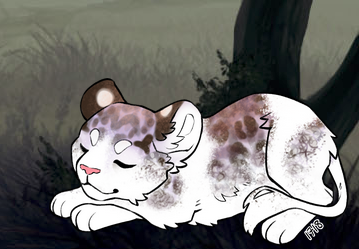
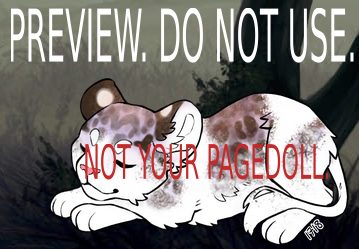
new layouts added and order form page

Changed region(s): [[0.0306, 0.0281, 1.0, 0.253], [0.2145, 0.5622, 0.5515, 0.7309], [0.5822, 0.5622, 0.9192, 0.7309]]

diff --git a/order.html b/order.html
@@ -1026,17 +1026,17 @@
                 <h3 class="pb-2 d-inline-block">Extravagant Package</h3>
             </summary>
             <div id="extravagantForm" class="p-4 mb-5">
-                <!-- <p class="mb-0">Coming Soon :&rpar;</p> -->
-                <p>
+                <p class="mb-0">Coming Soon :&rpar;</p>
+                <!-- <p>
                     <strong>
                         Please keep in mind that this particular package is less flexible than my others due to how
                         heavily styled it is. That may change in the future as I work with it more, but there are some
                         things that I may not be willing to change or include at this time that I might for my other
                         packages.
                     </strong>
-                </p>
+                </p> -->
                 <!-- payment -->
-                <h5>1. Payment:</h5>
+                <!-- <h5>1. Payment:</h5>
                 <div class="form-check">
                     <input class="form-check-input" type="radio" name="paymentTypeExtravagant" id="gbPaymentExtravagant"
                         value="gb" checked>
@@ -1053,17 +1053,17 @@
                 <div class="form-text" id="paymentDescExtravagant">
                     Only fill this in if you selected Items. Only items that are listed in my alternate payments section
                     will be accepted.
-                </div>
+                </div> -->
                 <!-- logo -->
-                <h5 class="mt-3">2. Logo:</h5>
+                <!-- <h5 class="mt-3">2. Logo:</h5>
                 <label for="logoItemTextExtravagant">Logo Item:</label>
                 <input type="text" class="form-control required" id="logoItemTextExtravagant"
                     aria-describedby="logoDescExtravagant">
                 <div class="form-text" id="logoDescExtravagant">
                     LD items only. Just give the name of the item, please.
-                </div>
+                </div> -->
                 <!-- bg img -->
-                <h5 class="mt-3">3. Background:</h5>
+                <!-- <h5 class="mt-3">3. Background:</h5>
                 <p class="mb-0">Approved Image Sources:</p>
                 <ul>
                     <li><a href="https://unsplash.com/">Unsplash</a></li>
@@ -1082,9 +1082,9 @@
                     the image, please or the name of the BG if it's an LD BG. For Unsplash and Pexels, the
                     correct link will be up in the address bar when you are looking at the download page for the image
                     you'd like.
-                </div>
+                </div> -->
                 <!-- font -->
-                <h5 class="mt-3">4. Font:</h5>
+                <!-- <h5 class="mt-3">4. Font:</h5>
                 <p class="mb-1">
                     Any fonts must be from <a href="https://fonts.google.com/" title="Google Fonts Homepage">Google
                         Fonts</a>. Please just give me the font names rather than links.
@@ -1102,9 +1102,9 @@
                 <div class="form-text" id="headFontDescExtravagant">
                     Font will be used for headers, navbar, and the tops of tables. Leave blank if
                     you just want one font for the whole page.
-                </div>
+                </div> -->
                 <!-- main color -->
-                <h5 class="mt-3">5. Main Color:</h5>
+                <!-- <h5 class="mt-3">5. Main Color:</h5>
                 <p class="mb-1">Only give me color names for both this and accent color, please. Do not give me hex
                     codes or rgb values as I will not
                     use them and will instead pick the exact values myself to better fit with the images or theme
@@ -1115,17 +1115,17 @@
                     aria-describedby="pcDescExtravagant">
                 <div class="form-text" id="pcDescExtravagant">
                     Will be used for the bulk of the page.
-                </div>
+                </div> -->
                 <!-- accent color -->
-                <h5 class="mt-3">6. Accent Color:</h5>
+                <!-- <h5 class="mt-3">6. Accent Color:</h5>
                 <label for="tcExtravagant">Color:</label>
                 <input id="tcExtravagant" type="text" class="form-control required"
                     aria-describedby="tcDescExtravagant">
                 <div class="form-text" id="tcDescExtravagant">
                     Will be used for regular buttons and the progress bars.
-                </div>
+                </div> -->
                 <!-- overlay -->
-                <h5 class="mt-3">7. Overlay Image:</h5>
+                <!-- <h5 class="mt-3">7. Overlay Image:</h5>
                 <p class="mb-0">Approved Overlay Sources:</p>
                 <ul>
                     <li><a href="https://www.transparenttextures.com/" title="Transparent Textures Homepage">Transparent
@@ -1139,9 +1139,9 @@
                 <div class="form-text" id="overlayDescExtravagant">
                     Will be used to add a texture to many of the elements on the page. The provided overlay image may
                     have its color or opacity adjusted to better match everything else.
-                </div>
+                </div> -->
                 <!-- sidebar imgs -->
-                <h5 class="mt-3">8. Sidebar Panel Images:</h5>
+                <!-- <h5 class="mt-3">8. Sidebar Panel Images:</h5>
                 <p class="mb-1">
                     All these images must be <a href="https://www.lioden.wiki/background-directory"
                         title="Lioden Wiki Background Directory">LD BGs</a>.
@@ -1164,9 +1164,9 @@
                 <input id="bPanelExtravagant" type="text" class="form-control" aria-describedby="bPanelDescExtravagant">
                 <div class="form-text" id="bPanelDescExtravagant">
                     This is the panel that has your pinned bookmarks. Leave blank to make the same as the members panel.
-                </div>
+                </div> -->
                 <!-- sidebar arrows -->
-                <h5 class="mt-3">9. Sidebar Arrow Images:</h5>
+                <!-- <h5 class="mt-3">9. Sidebar Arrow Images:</h5>
                 <p class="mb-1">
                     All these images must be LD items.
                 </p>
@@ -1187,9 +1187,9 @@
                 <div class="form-text" id="bArrowDescExtravagant">
                     This is the arrow next to "Bookmarks" in the sidebar. Leave blank to make the same as the king stats
                     arrow.
-                </div>
+                </div> -->
                 <!-- player table bg -->
-                <h5 class="mt-3">10. Player Table BG:</h5>
+                <!-- <h5 class="mt-3">10. Player Table BG:</h5>
                 <p class="mb-1">
                     Must be an <a href="https://www.lioden.wiki/background-directory"
                         title="Lioden Wiki Background Directory">LD BG</a>.
@@ -1201,9 +1201,9 @@
                     This will be used for the background of the about and player tables. The about table is the one that
                     has the image of your king and stats regarding your pride. The player table has your profile
                     picture, display name, ID number, and when you were last active.
-                </div>
+                </div> -->
                 <!-- caves -->
-                <h5 class="mt-3">11. Cave Images:</h5>
+                <!-- <h5 class="mt-3">11. Cave Images:</h5>
                 <p class="mb-1">
                     All of these images must be <a href="https://www.lioden.wiki/background-directory"
                         title="Lioden Wiki Background Directory">LD BGs</a>.
@@ -1254,9 +1254,9 @@
                 <div class="form-text" id="caveExtraDescExtravagant">
                     Please make sure to label each image with what number of cave you'd like it for. Leave blank to make
                     the same as the default.
-                </div>
+                </div> -->
                 <!-- mounds -->
-                <h5 class="mt-3">12. Mound Images:</h5>
+                <!-- <h5 class="mt-3">12. Mound Images:</h5>
                 <p class="mb-1">
                     All of these images must be <a href="https://www.lioden.wiki/background-directory"
                         title="Lioden Wiki Background Directory">LD BGs</a>.
@@ -1284,9 +1284,9 @@
                 <div class="form-text" id="moundExtraDescExtravagant">
                     Please make sure to label each image with what number of mound you'd like it for. Leave blank to
                     make the same as the default.
-                </div>
+                </div> -->
                 <!-- dynasties -->
-                <h5 class="mt-3">13. Dynasty Images:</h5>
+                <!-- <h5 class="mt-3">13. Dynasty Images:</h5>
                 <p class="mb-1">
                     All of these images must be <a href="https://www.lioden.wiki/background-directory"
                         title="Lioden Wiki Background Directory">LD BGs</a>.
@@ -1320,23 +1320,23 @@
                     aria-describedby="beetleDynDescExtravagant">
                 <div class="form-text" id="beetleDynDescExtravagant">
                     Leave blank to make the same as the king dynasty.
-                </div>
+                </div> -->
                 <!-- featured bg -->
-                <h5 class="mt-3">14. Featured Lion BG:</h5>
+                <!-- <h5 class="mt-3">14. Featured Lion BG:</h5>
                 <label for="featuredBGExtravagant">BG Name:</label>
                 <input type="text" class="form-control required" id="featuredBGExtravagant"
                     aria-describedby="featuredBGDescExtravagant">
-                <div class="form-text" id="featuredBGDescExtravagant">Must be an LD BG.</div>
+                <div class="form-text" id="featuredBGDescExtravagant">Must be an LD BG.</div> -->
                 <!-- comment box msg -->
-                <h5 class="mt-3">15. Comment Box Message:</h5>
+                <!-- <h5 class="mt-3">15. Comment Box Message:</h5>
                 <label for="commentExtravagant">Message:</label>
                 <input type="text" class="form-control" id="commentExtravagant"
                     aria-describedby="commentDescExtravagant">
                 <div class="form-text" id="commentDescExtravagant">Used in the header of the comment box. Must be no
                     longer than 100 characters. If left blank, the default message is "Leave a comment!" and that is
-                    what it will be set to.</div>
+                    what it will be set to.</div> -->
                 <!-- online/offline -->
-                <h5 class="mt-3">16. Online/Offline Text:</h5>
+                <!-- <h5 class="mt-3">16. Online/Offline Text:</h5>
                 <p class="mb-1">This refers to text beside the online/offline indicator dot next to your display name.
                 </p>
                 <label for="onlineExtravagant">Online:</label>
@@ -1345,9 +1345,9 @@
                 <label for="offlineExtravagant" class="mt-2">Offline:</label>
                 <input type="text" class="form-control" id="offlineExtravagant"
                     aria-describedby="offlineDescExtravagant">
-                <div class="form-text" id="offlineDescExtravagant">Must be a single word.</div>
+                <div class="form-text" id="offlineDescExtravagant">Must be a single word.</div> -->
                 <!-- boxes -->
-                <h5 class="mt-3">17. HTML Boxes:</h5>
+                <!-- <h5 class="mt-3">17. HTML Boxes:</h5>
                 <p class="mb-0">Main Boxes:</p>
                 <div class="form-check">
                     <input class="form-check-input" type="radio" name="mainBoxExtravagant" id="boxStatic1Extravagant"
@@ -1396,9 +1396,9 @@
                     <label class="form-check-label" for="boxPlainExtravagant">
                         Plain Box
                     </label>
-                </div>
+                </div> -->
                 <!-- value -->
-                <h5 class="mt-3">18. Light or Dark:</h5>
+                <!-- <h5 class="mt-3">18. Light or Dark:</h5>
                 <div class="form-check">
                     <input class="form-check-input" type="radio" name="valueExtravagant" id="valueLightExtravagant"
                         value="light">
@@ -1423,7 +1423,7 @@
                         put "cc" in that spot.
                     </p>
                 </div>
-                <div id="extravagantOrder"></div>
+                <div id="extravagantOrder"></div> -->
             </div>
         </details>
         <!-- <p>

diff --git a/index.html b/index.html
@@ -27,6 +27,9 @@
                             <a class="nav-link" href="./tutorials.html" title="Tutorials Page">Tutorials</a>
                         </li>
                         <li class=" nav-item mx-2">
+                            <a class="nav-link" href="./order.html" title="Ordering Page">Comm Forms</a>
+                        </li>
+                        <li class=" nav-item mx-2">
                             <a class="nav-link" href="./replacer.html" title="Bracket Replacer Page">Bracket
                                 Replacer</a>
                         </li>
@@ -165,7 +168,7 @@
         </div>
         <details open>
             <summary>
-                <h3 class="pb-2 d-inline-block" id="aesthetic">Aesthetic Layouts (29)</h3>
+                <h3 class="pb-2 d-inline-block" id="aesthetic">Aesthetic Layouts (33)</h3>
             </summary>
             <div class="row" id="aestheticCon"></div>
         </details>
@@ -201,7 +204,7 @@
         </details>
         <details open>
             <summary>
-                <h3 class="pb-2 d-inline-block" id="scenic">Scenic Layouts (24)</h3>
+                <h3 class="pb-2 d-inline-block" id="scenic">Scenic Layouts (30)</h3>
             </summary>
             <div class="row" id="scenicCon"></div>
         </details>
@@ -265,26 +268,31 @@
             so anyone distributing them through free CSS or packaging them with their own commissions without my
             express permission will be reported for doing so as it is a blatant violation of my rules. You also
             <strong><em>CANNOT</em></strong>
-            use more than one of these box add-ons at a
-            time because they will override each other.
+            use more than one of the box add-ons at a
+            time because they will override each other. The pagedoll can stack with any of them, however.
         </p>
         <h4>How to Use:</h4>
         <ol class="ms-2 pe-5">
-            <li>Copy the CSS Link (yes it is necessary to make the boxes work)</li>
+            <li>Copy the CSS Link (yes it is necessary to make any of these work)</li>
             <li>Paste at the top of your territory description. It should be after any other CSS links you have
                 (such as those for the layouts above) but before any text or box codes.</li>
-            <li>Copy box HTML.</li>
+            <li>Copy HTML.</li>
             <li>Paste into territory description after the CSS Link from previous steps.</li>
-            <li>If using someone else's layout, style boxes to match page <strong>(Instructions on the <a
-                        href="./tutorials.html" title="Tutorials Page">Tutorials</a>
-                    page)</strong>.</li>
-            <li>Replace placeholder text with whatever you'd like.</li>
+            <li>For the boxes, if you're using someone else's layout, style the boxes to match the page
+                <strong>(Instructions on
+                    the <a href="./tutorials.html" title="Tutorials Page">Tutorials</a>
+                    page)</strong>. Disregard for the pagedoll.
+            </li>
+            <li>Replace placeholder text with whatever you'd like (in the case of the pagedoll that would be the
+                placeholder IMGLINK).</li>
             <li>That's it! If you are having trouble getting these to work, please make sure you have followed all
-                listed steps and looked through the Tutorials page if applicable before replying to the thread.
-                Please do not PM
-                me about these boxes ever, that's what the thread is for.</li>
+                listed, applicable steps exactly as outlined before
+                replying to the thread and be prepared to give me a step by step of what all you did and what the
+                result
+                was so that I can help you troubleshoot as effectively as possible.</li>
         </ol>
-        <p class="pb-2">The preview images display how they look by default. They will
+        <p class="pb-2">The preview images display how they look by default (the pagedoll has nothing by default, but
+            that's hard to see so I used an old page doll of mine as an example). The boxes will
             immediately
             change to match any of my layouts, but if you are using someone else's, you'll have to
             follow the tutorial to make them match. As the name suggests,
@@ -395,7 +403,7 @@
                         <textarea id="pagedollCSS" name="copy-field" class="copy-field"
                             rows="3">&lt;link rel="stylesheet" type="text/css" href="https://chris105465.github.io/layouts/css/boxes/pagedoll.css" /></textarea>
                         <div class="d-flex justify-content-between align-items-end">
-                            <label for="pagedollHTML" class="py-2">HTML (Big Box)</label><button
+                            <label for="pagedollHTML" class="py-2">HTML</label><button
                                 onclick="copyButton('pagedollHTML')" class="btn btn-primary mb-2">Copy</button>
                         </div>
                         <textarea id="pagedollHTML" name="copy-field" class="copy-field"

diff --git a/js/order-forms.js b/js/order-forms.js
@@ -338,7 +338,7 @@ function basicFormPop() {
 9. Featured lion BG: ${featuredBG}
 10. King image styling: ${kingRounded}${kingSquare}${kingCircle}
 11. HTML Boxes: ${boxStatic1}${boxStatic2}${boxStatic3}${boxHover}${boxDefault}|${pagedoll},${popUp},${plainBox}
-12. Any other specifications: ${specs}</textarea><div class="form-text" id="basicOrderDesc">Please double check that all of the fields are filled in how you like before you send this order form on the thread or in my PMs. Don't worry if there's some extra spaces between some words in the form, that's just how the code worked out lol. I won't mind that one bit, so no need to remove any extras.</div>`
+12. Any other specifications: ${specs}</textarea><div class="form-text" id="basicOrderDesc">Please double check that all of the fields are filled in how you like before you send this order form on the thread or in my PMs. Don't worry if the formatting seems strange. I made it look the way it does on purpose.</div>`
     }
 }
 
@@ -730,7 +730,7 @@ function premiumFormPop() {
 11. King image styling: ${kingRounded}${kingSquare}${kingCircle}|${kingHoverYes}${kingHoverNo}|${kingHoverRounded}${kingHoverSquare}${kingHoverCircle}
 12. HTML Boxes: ${boxStatic1}${boxStatic2}${boxStatic3}${boxHover}${boxDefault}|${pagedoll},${popUp},${plainBox}
 13. Visible Credit Removal: ${creditYes}${creditNo}
-14. Any other specifications: ${specs}</textarea><div class="form-text" id="premiumOrderDesc">Please double check that all of the fields are filled in how you like before you send this order form on the thread or in my PMs. Don't worry if there's some extra spaces between some words in the form, that's just how the code worked out lol. I won't mind that one bit, so no need to remove any extras.</div>`
+14. Any other specifications: ${specs}</textarea><div class="form-text" id="premiumOrderDesc">Please double check that all of the fields are filled in how you like before you send this order form on the thread or in my PMs. Don't worry if the formatting seems strange. I made it look the way it does on purpose.</div>`
     }
 }
 
@@ -859,7 +859,7 @@ function coderFormPop() {
 2. Background Color/Image: ${bgImage}
 3. Additional Image Source: ${unsplash}${ldbg}${noPref}
 4. HTML Boxes: ${boxStatic1}${boxStatic2}${boxStatic3}${boxHover}${boxDefault}|${pagedoll},${popUp},${plainBox}
-5. The vibe you're going for: ${vibe}</textarea><div class="form-text" id="coderOrderDesc">Please double check that all of the fields are filled in how you like before you send this order form on the thread or in my PMs. Don't worry if there's some extra spaces between some words in the form, that's just how the code worked out lol. I won't mind that one bit, so no need to remove any extras.</div>`
+5. The vibe you're going for: ${vibe}</textarea><div class="form-text" id="coderOrderDesc">Please double check that all of the fields are filled in how you like before you send this order form on the thread or in my PMs. Don't worry if the formatting seems strange. I made it look the way it does on purpose.</div>`
     }
 }
 

diff --git a/replacer.html b/replacer.html
@@ -27,6 +27,9 @@
                             <a class="nav-link" href="./tutorials.html" title="Tutorials Page">Tutorials</a>
                         </li>
                         <li class=" nav-item mx-2">
+                            <a class="nav-link" href="./order.html" title="Ordering Page">Comm Forms</a>
+                        </li>
+                        <li class=" nav-item mx-2">
                             <a class="nav-link active" href="./replacer.html" title="Bracket Replacer Page">Bracket
                                 Replacer</a>
                         </li>

diff --git a/tutorials.html b/tutorials.html
@@ -27,6 +27,9 @@
                             <a class="nav-link active" href="./tutorials.html" title="Tutorials Page">Tutorials</a>
                         </li>
                         <li class=" nav-item mx-2">
+                            <a class="nav-link" href="./order.html" title="Ordering Page">Comm Forms</a>
+                        </li>
+                        <li class=" nav-item mx-2">
                             <a class="nav-link" href="./replacer.html" title="Bracket Replacer Page">Bracket
                                 Replacer</a>
                         </li>
